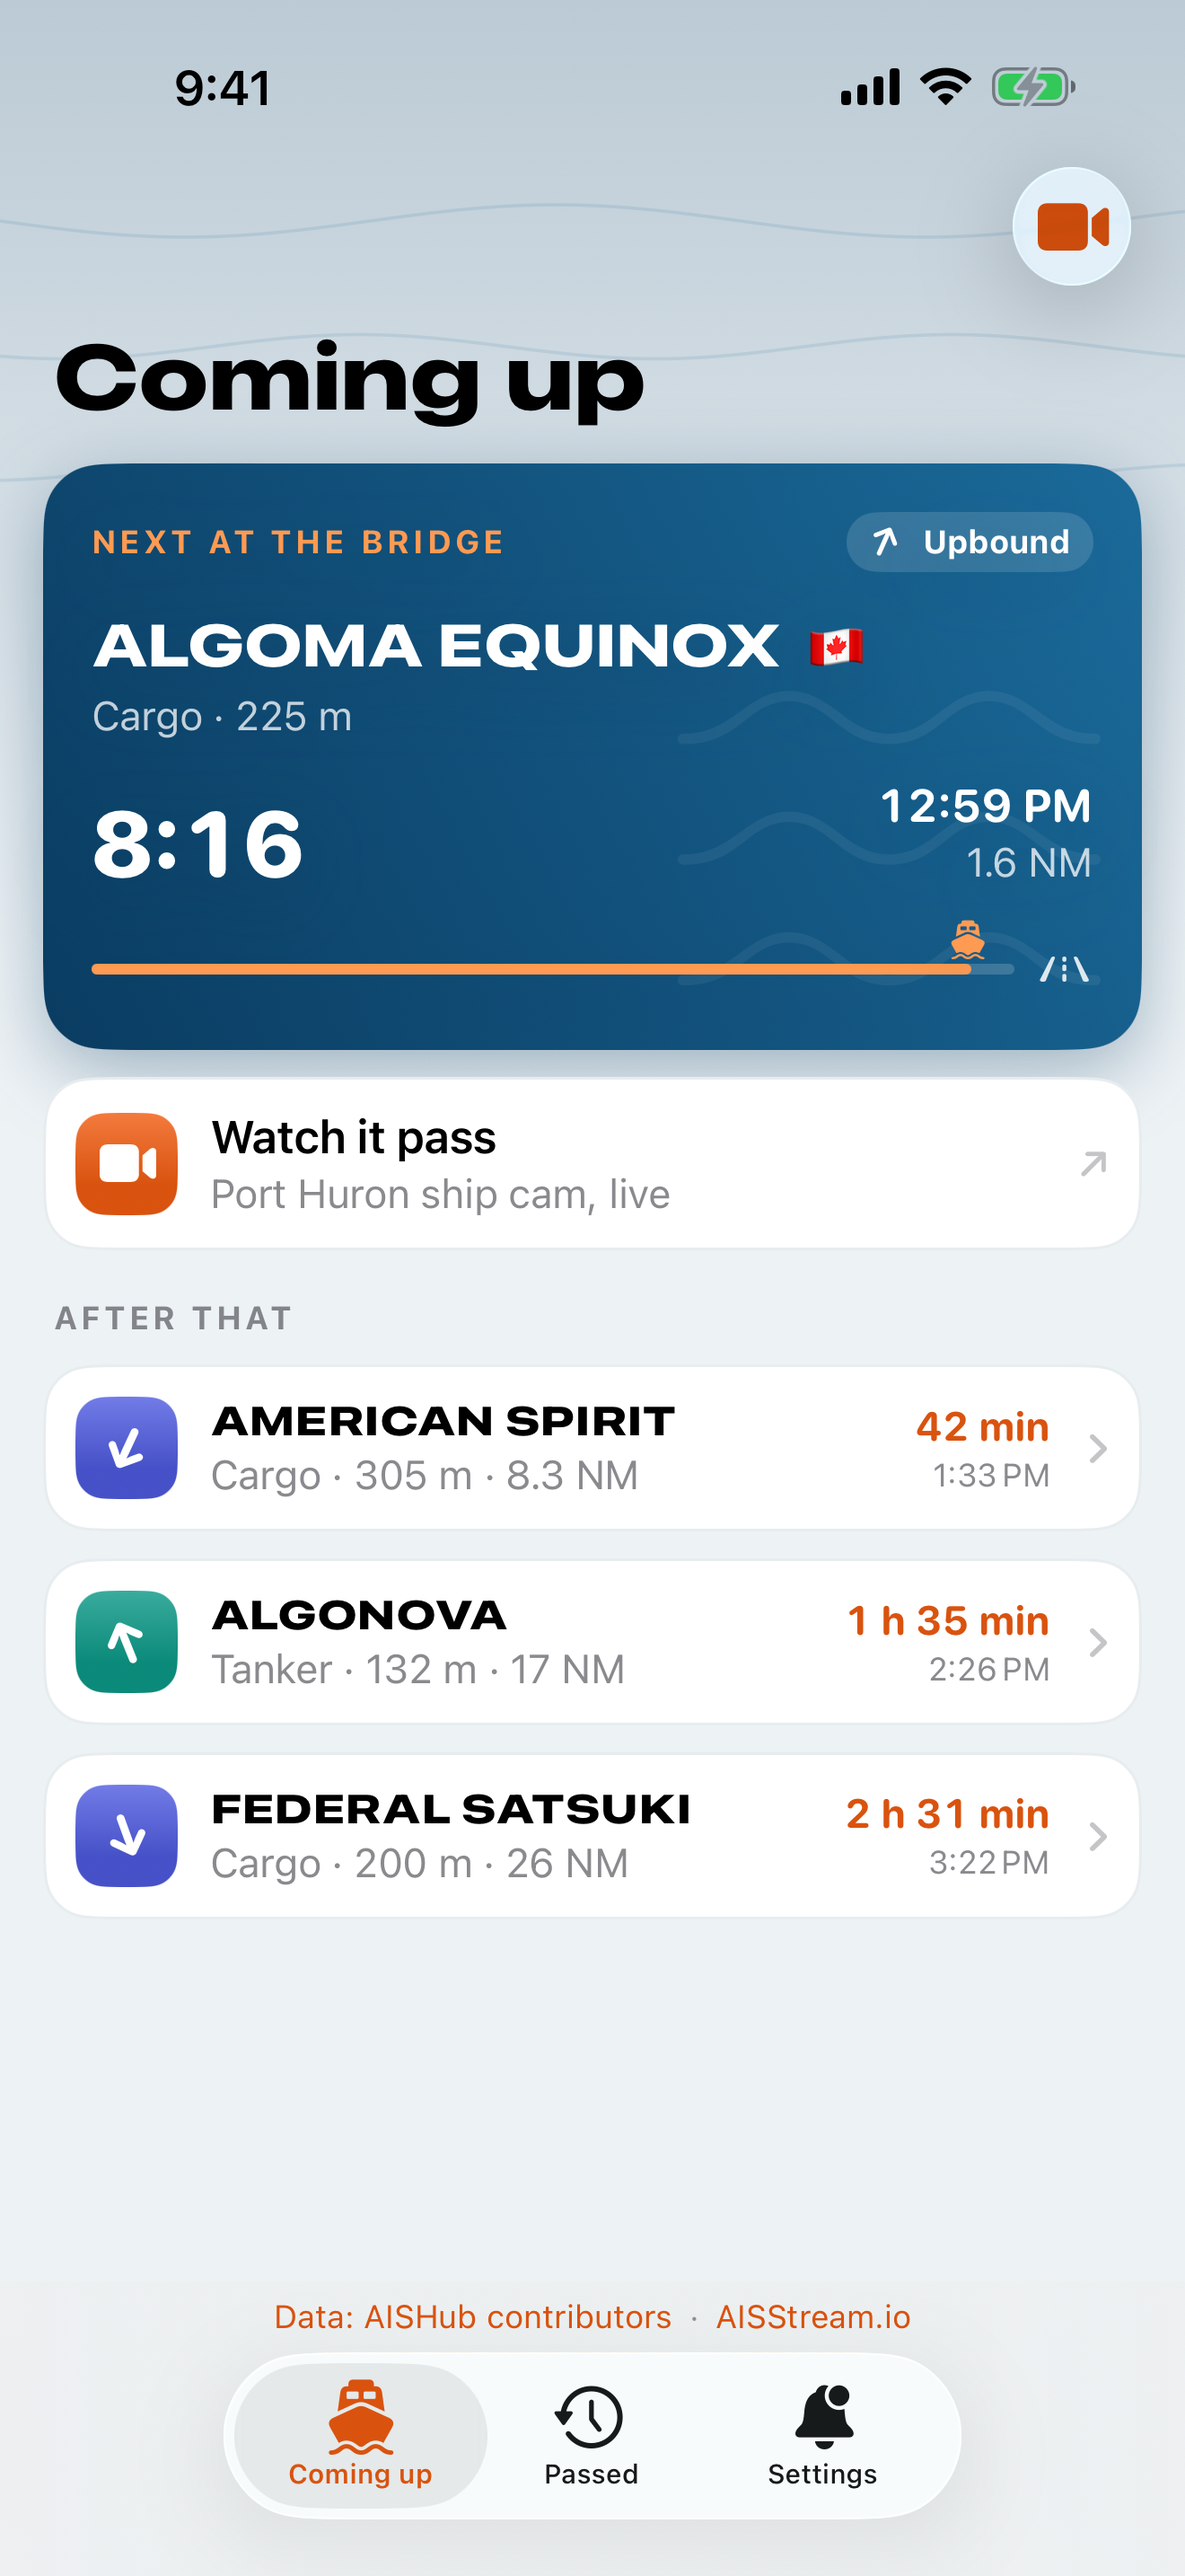
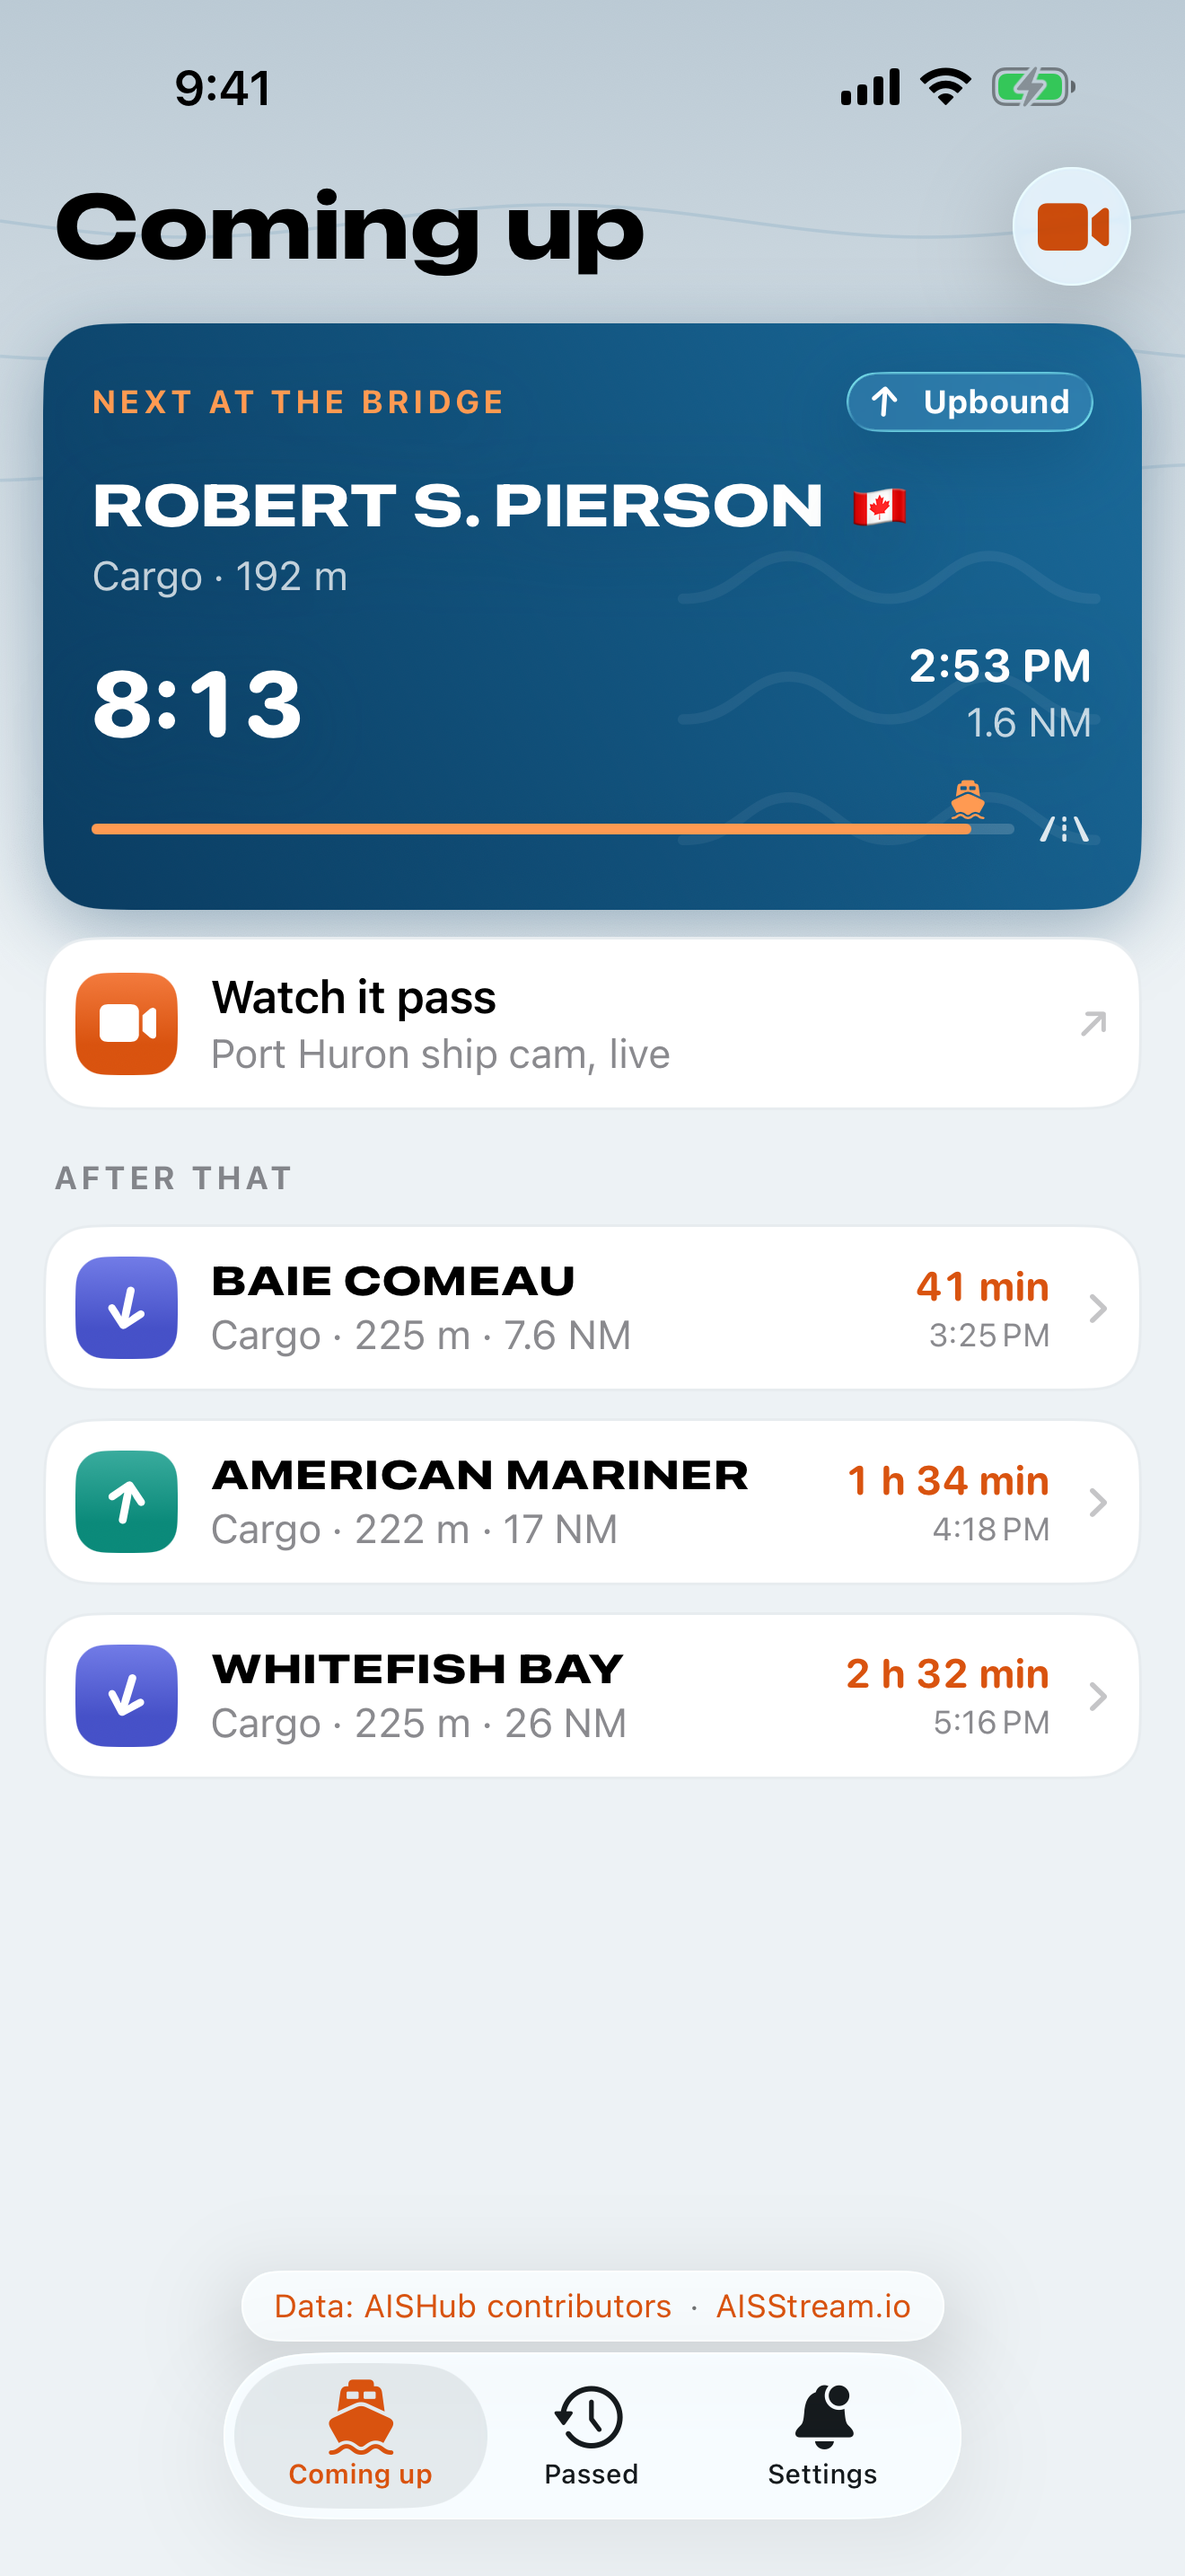
feat(ios): titles in the bar, Liquid Glass, fixed ship name, live store screenshots (#73)
- Coming up, Passed and Settings use inline-large titles, so the title shares
  the bar with its buttons instead of taking a row of its own
- Liquid Glass (iOS 26) for the floating data credits, the direction pill on
  the next-ship card and the "Try again" button; a material fallback before
- Ship page: size the photo box before laying the name over it. A filled
  photo is larger than the box and pushed the name below the clipped edge
- Store screenshots retaken against the live server's ships and photos

diff --git a/ios/BridgeView/Views/ShipListContainer.swift b/ios/BridgeView/Views/ShipListContainer.swift
@@ -29,7 +29,7 @@ struct ShipListContainer<Empty: View>: View {
                         Text(error)
                     } actions: {
                         Button("Try again") { Task { await store.refresh() } }
-                            .buttonStyle(.borderedProminent)
+                            .prominentGlassButton()
                     }
                 } else if ships == nil {
                     ProgressView()
@@ -41,6 +41,8 @@ struct ShipListContainer<Empty: View>: View {
             .background { RiverBackground() }
             .refreshable { await store.refresh() }
             .navigationTitle(title)
+            // Big title in the bar, beside its buttons, not on a row of its own
+            .toolbarTitleDisplayMode(.inlineLarge)
             .toolbar {
                 if let shipCam {
                     ToolbarItem(placement: .topBarTrailing) {
@@ -54,20 +56,25 @@ struct ShipListContainer<Empty: View>: View {
                 ShipDetailView(mmsi: mmsi)
             }
             .safeAreaInset(edge: .bottom) {
-                VStack(spacing: 0) {
+                // Small glass pills floating over the list, above the tab bar
+                VStack(spacing: 6) {
                     if ships != nil, let error = store.error {
                         Label(error, systemImage: "exclamationmark.triangle")
                             .font(.footnote)
-                            .padding(8)
-                            .frame(maxWidth: .infinity)
+                            .padding(.horizontal, 12)
+                            .padding(.vertical, 6)
+                            .glassPill()
                     }
                     if let attribution = store.snapshot?.attribution, !attribution.isEmpty {
                         DataCredits(attribution: attribution)
-                            .padding(.horizontal)
+                            .fixedSize()
+                            .padding(.horizontal, 12)
                             .padding(.vertical, 6)
+                            .glassPill()
                     }
                 }
-                .background(.thinMaterial)
+                .padding(.horizontal)
+                .padding(.bottom, 4)
             }
         }
     }
@@ -123,7 +130,7 @@ struct NextShipCard: View {
                 .font(.caption.weight(.bold))
                 .padding(.horizontal, 8)
                 .padding(.vertical, 4)
-                .background(.white.opacity(0.14), in: .capsule)
+                .glassPill(clear: true)
             }
             VStack(alignment: .leading, spacing: 4) {
                 HStack(alignment: .firstTextBaseline, spacing: 8) {

diff --git a/ios/BridgeView/Views/ShipDetailView.swift b/ios/BridgeView/Views/ShipDetailView.swift
@@ -90,22 +90,28 @@ private struct ShipDetailContent: View {
 
     @ViewBuilder private var header: some View {
         VStack(alignment: .leading, spacing: 0) {
-            ZStack(alignment: .bottomLeading) {
-                photo
-                LinearGradient(colors: [.clear, .black.opacity(0.65)], startPoint: .center, endPoint: .bottom)
-                HStack(alignment: .firstTextBaseline, spacing: 8) {
-                    Text(ship.name)
-                        .font(Theme.hull(.title))
-                        .lineLimit(2)
-                        .minimumScaleFactor(0.6)
-                    if let flag = ship.flagEmoji { Text(flag).font(.title2) }
+            // Size the box first: a filled photo is larger than it, and would push
+            // the name below the clipped edge if it set the size
+            Color.clear
+                .frame(maxWidth: .infinity)
+                .frame(height: 220)
+                .overlay { photo }
+                .clipped()
+                .overlay {
+                    LinearGradient(colors: [.clear, .black.opacity(0.65)], startPoint: .center, endPoint: .bottom)
                 }
-                .foregroundStyle(.white)
-                .shadow(radius: 4)
-                .padding(16)
-            }
-            .frame(height: 220)
-            .clipped()
+                .overlay(alignment: .bottomLeading) {
+                    HStack(alignment: .firstTextBaseline, spacing: 8) {
+                        Text(ship.name)
+                            .font(Theme.hull(.title))
+                            .lineLimit(2)
+                            .minimumScaleFactor(0.6)
+                        if let flag = ship.flagEmoji { Text(flag).font(.title2) }
+                    }
+                    .foregroundStyle(.white)
+                    .shadow(radius: 4)
+                    .padding(16)
+                }
             if ship.info?.description != nil || ship.cargo != nil || !ship.summary.isEmpty {
                 VStack(alignment: .leading, spacing: 6) {
                     if !ship.summary.isEmpty {

diff --git a/ios/BridgeView/Views/Styling.swift b/ios/BridgeView/Views/Styling.swift
@@ -60,6 +60,26 @@ extension View {
         modifier(CardModifier(padding: padding))
     }
 
+    /// Liquid Glass capsule for small controls floating over content (iOS 26);
+    /// a material capsule on earlier versions. `clear` is the see-through glass
+    /// for use over a colour or photo.
+    @ViewBuilder func glassPill(clear: Bool = false) -> some View {
+        if #available(iOS 26, *) {
+            glassEffect(clear ? .clear : .regular, in: .capsule)
+        } else {
+            background(clear ? AnyShapeStyle(.white.opacity(0.14)) : AnyShapeStyle(.thinMaterial), in: .capsule)
+        }
+    }
+
+    /// The main button in a view: tinted glass on iOS 26, filled before
+    @ViewBuilder func prominentGlassButton() -> some View {
+        if #available(iOS 26, *) {
+            buttonStyle(.glassProminent)
+        } else {
+            buttonStyle(.borderedProminent)
+        }
+    }
+
     /// Themed background for a List or Form
     func riverListBackground() -> some View {
         scrollContentBackground(.hidden)

diff --git a/ios/BridgeView/Views/SettingsView.swift b/ios/BridgeView/Views/SettingsView.swift
@@ -121,7 +121,11 @@ struct SettingsView: View {
                 .listRowBackground(Theme.surface)
             }
             .riverListBackground()
+            // The title sits in the bar now; no need for the form's usual top gap
+            .contentMargins(.top, 4, for: .scrollContent)
             .navigationTitle("Settings")
+            // Big title in the bar, beside its buttons, not on a row of its own
+            .toolbarTitleDisplayMode(.inlineLarge)
             .onChange(of: enabled) { locationSettingsChanged() }
             .onChange(of: categories) { push.preferencesChanged() }
             .onChange(of: minLength) { push.preferencesChanged() }

diff --git a/ios/AppStore/Listing.md b/ios/AppStore/Listing.md
@@ -77,14 +77,17 @@ First release.
 In this order:
 
 1. `1-coming-up.png`: Coming up, with the next ship's countdown
-2. `2-ship.png`: a ship's page
-3. `3-ship-details.png`: details, trips under the bridge and links
+2. `2-next-ship.png`: the next ship's page: photo, countdown, map
+3. `3-ship-details.png`: a ship's photo and details
 4. `4-coming-up-dark.png`: Coming up in Dark mode
-5. `5-alert-settings.png`: alert settings
+5. `5-passed.png`: ships that went under the bridge in the last day
+6. `6-alert-settings.png`: alert settings
 
-They were taken in the simulator against sample data (`ios/AppStore/screenshots`).
-Worth adding later: a Lock Screen shot of the Live Activity from a real device
-(the simulator can't start one), and a ship page with a real Wikimedia photo.
+Taken in the simulator (iPhone 17 Pro Max) against the live server's ships,
+photos and details. For 1, 2 and 4, four of the day's ships were given positions
+and ETAs heading for the bridge, since none were on their way at the time. Worth
+adding later: a Lock Screen shot of the Live Activity from a real device (the
+simulator can't start one).
 
 ## App privacy (the "nutrition label")
 
